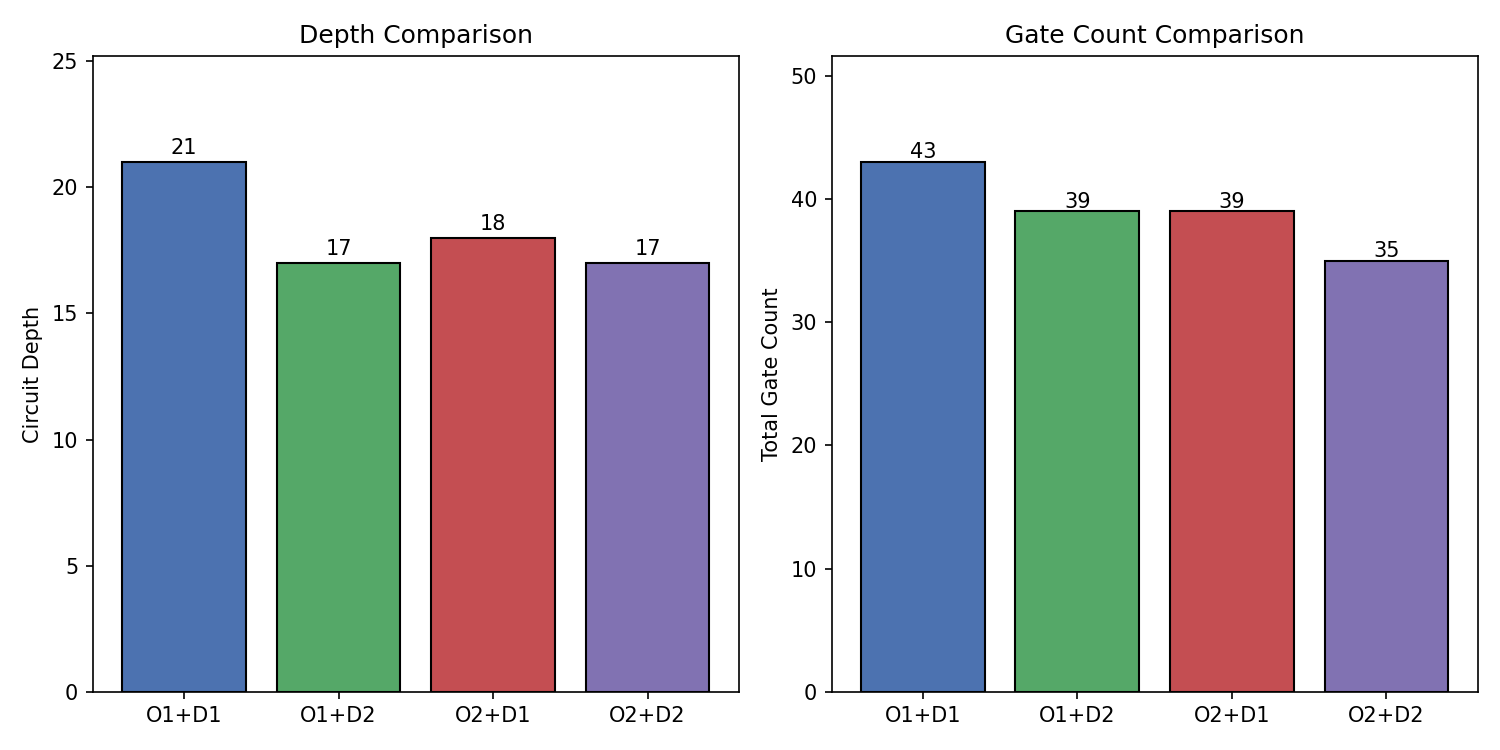
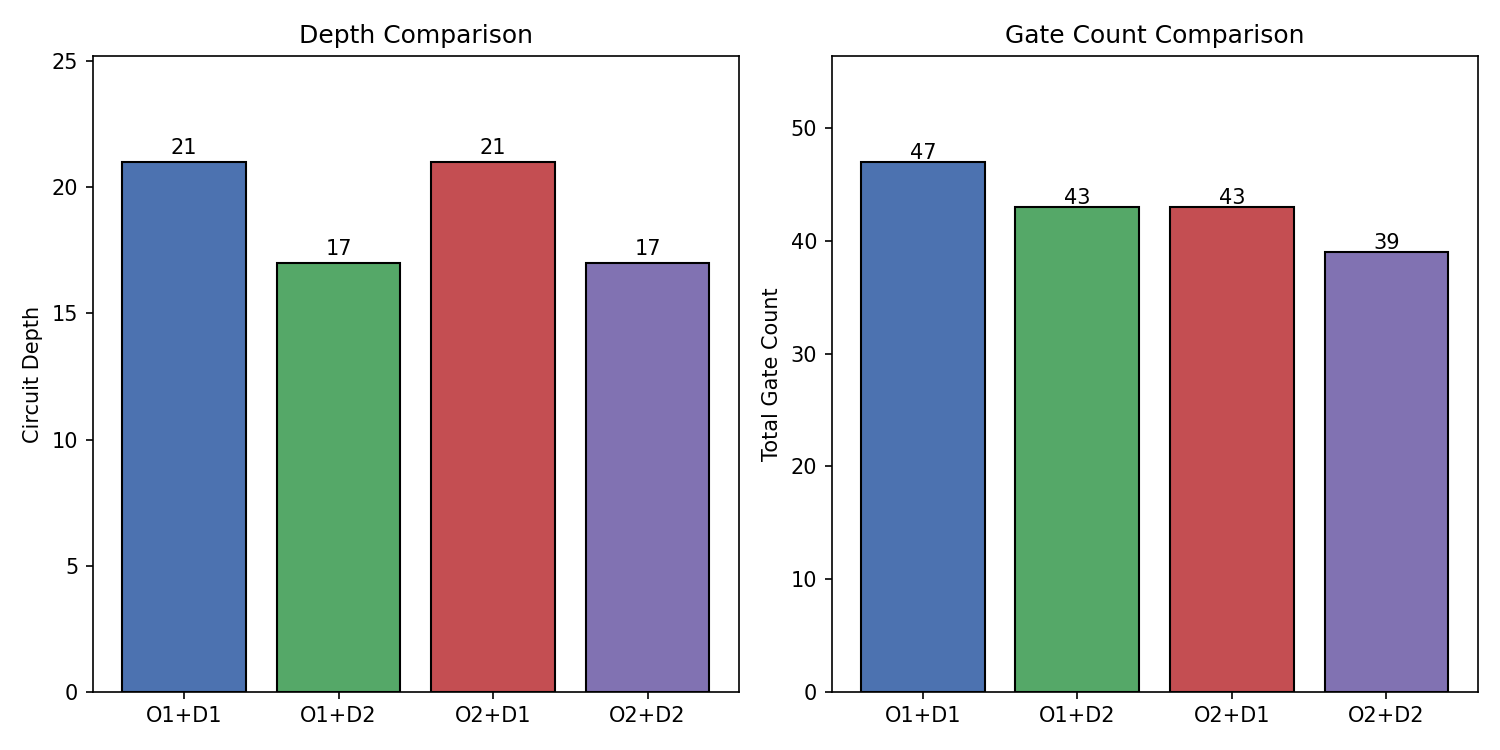
feat: visualize transpiled circuits for depth comparison

diff --git a/compare_circuit_depth.py b/compare_circuit_depth.py
@@ -1,12 +1,15 @@
 """Compare circuit depth and gate count across all oracle/diffuser combinations."""
 import json
 import os
+import math
 
 import matplotlib   
 matplotlib.use('Agg')
 import matplotlib.pyplot as plt
 from qiskit import QuantumCircuit
 from qiskit.converters import circuit_to_dag
+from qiskit.transpiler.preset_passmanagers import generate_preset_pass_manager
+from qiskit.providers.fake_provider import GenericBackendV2
 
 from src.config import N_QUBITS, TARGET_STATE
 from src.oracles import build_oracle_v1, build_oracle_v2
@@ -47,16 +50,31 @@ def build_full_circuit(oracle_name: str, diffuser_name: str) -> QuantumCircuit:
 
     qc = QuantumCircuit(N_QUBITS, name=f'{oracle_name}+{diffuser_name}')
     qc.h(range(N_QUBITS))
-    import math
+    qc.barrier()
     n_iterations = int(math.pi / 4 * math.sqrt(2 ** N_QUBITS))
-    for _ in range(n_iterations):
+    for i in range(n_iterations):
         qc.append(oracle_gate, range(N_QUBITS))
+        qc.barrier()
         qc.append(diffuser_gate, range(N_QUBITS))
+        if i < n_iterations - 1:
+            qc.barrier()
     return qc
 
 
 def main() -> None:
     os.makedirs(OUTPUT_DIR, exist_ok=True)
+
+    backend = GenericBackendV2(
+        num_qubits=N_QUBITS,
+        coupling_map=None,
+        basis_gates=['id', 'rz', 'sx', 'x', 'cx', 'reset'],
+        seed=42,
+    )
+    pm = generate_preset_pass_manager(
+        backend=backend,
+        optimization_level=1,
+        seed_transpiler=42,
+    )
 
     rows: list[dict] = []
 
@@ -73,6 +91,13 @@ def main() -> None:
             'total_gates': total_gates,
             'gate_breakdown': dict(sorted(ops.items())),
         })
+
+        # save transpiled circuit diagram for each combo
+        qc_transpiled = pm.run(qc)
+        fig_circ = qc_transpiled.draw('mpl')
+        fig_circ.savefig(f'{OUTPUT_DIR}/{label}_circuit.png', bbox_inches='tight')
+        plt.close(fig_circ)
+        print(f"Circuit saved: {OUTPUT_DIR}/{label}_circuit.png")
 
     # save JSON
     with open(os.path.join(OUTPUT_DIR, 'depth_comparison.json'), 'w') as f: